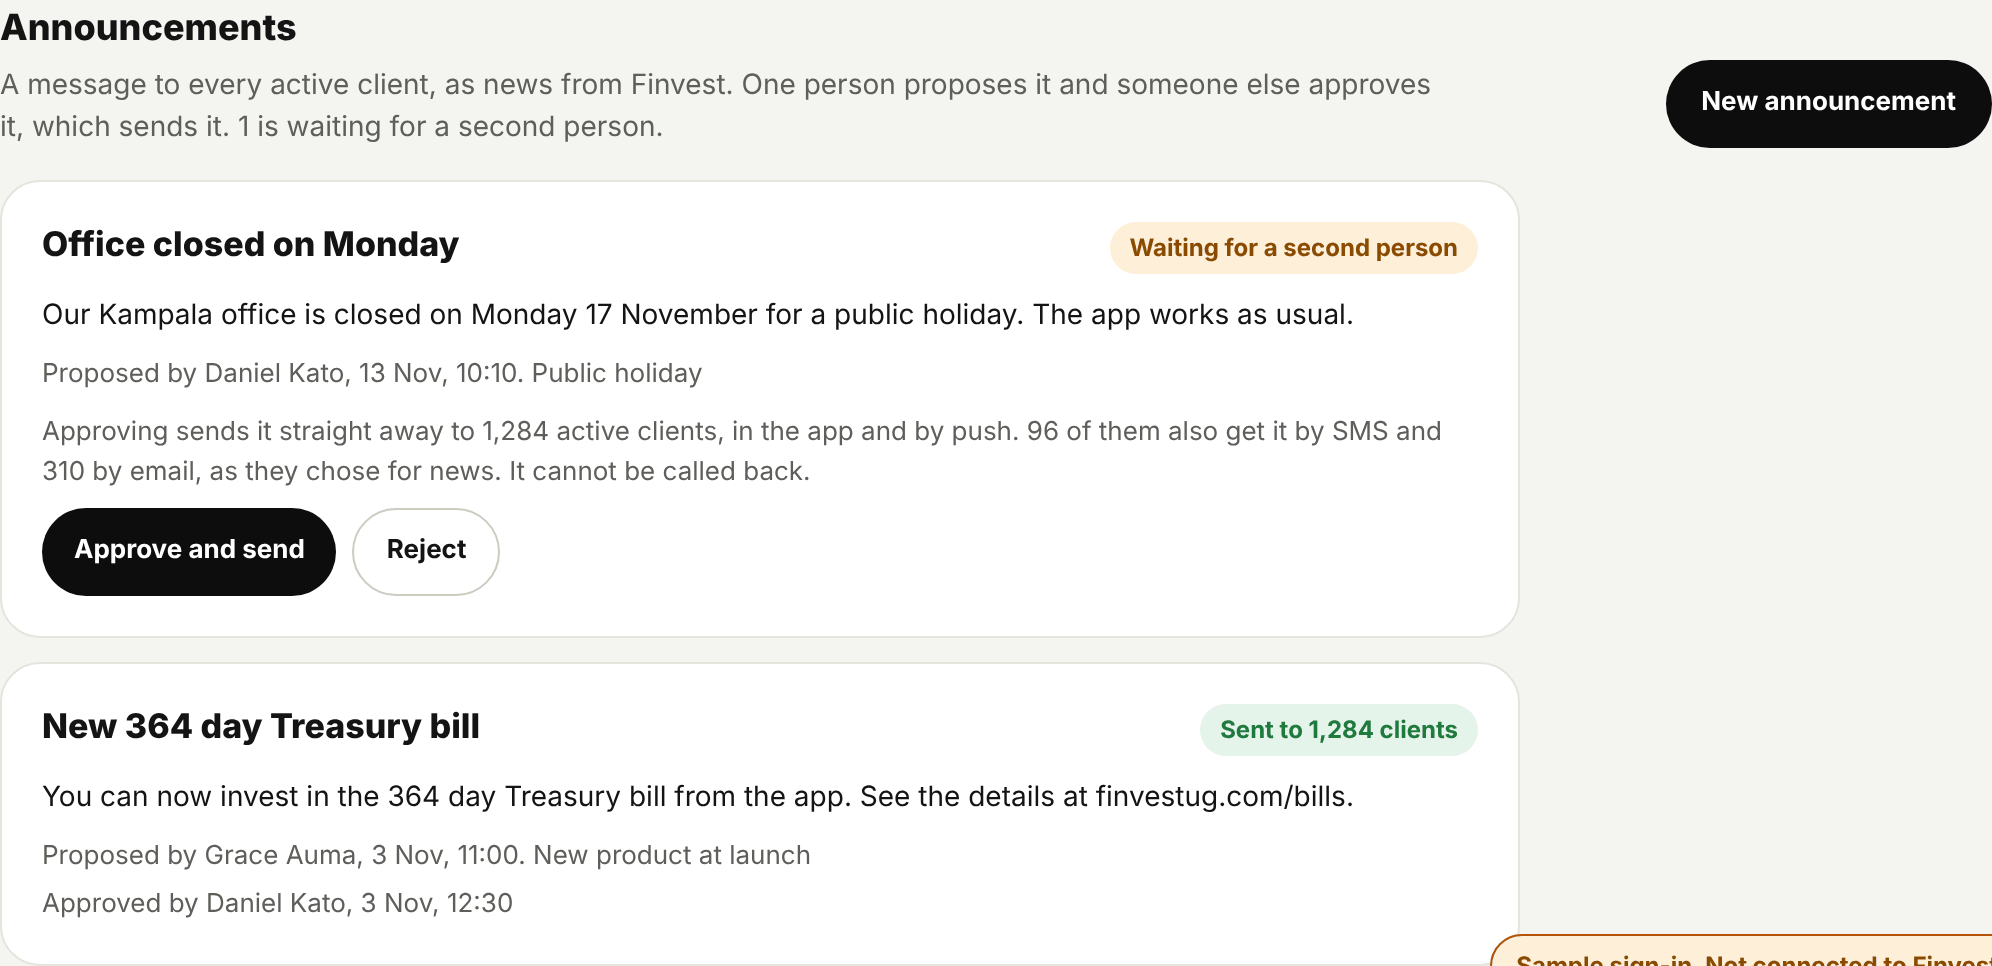
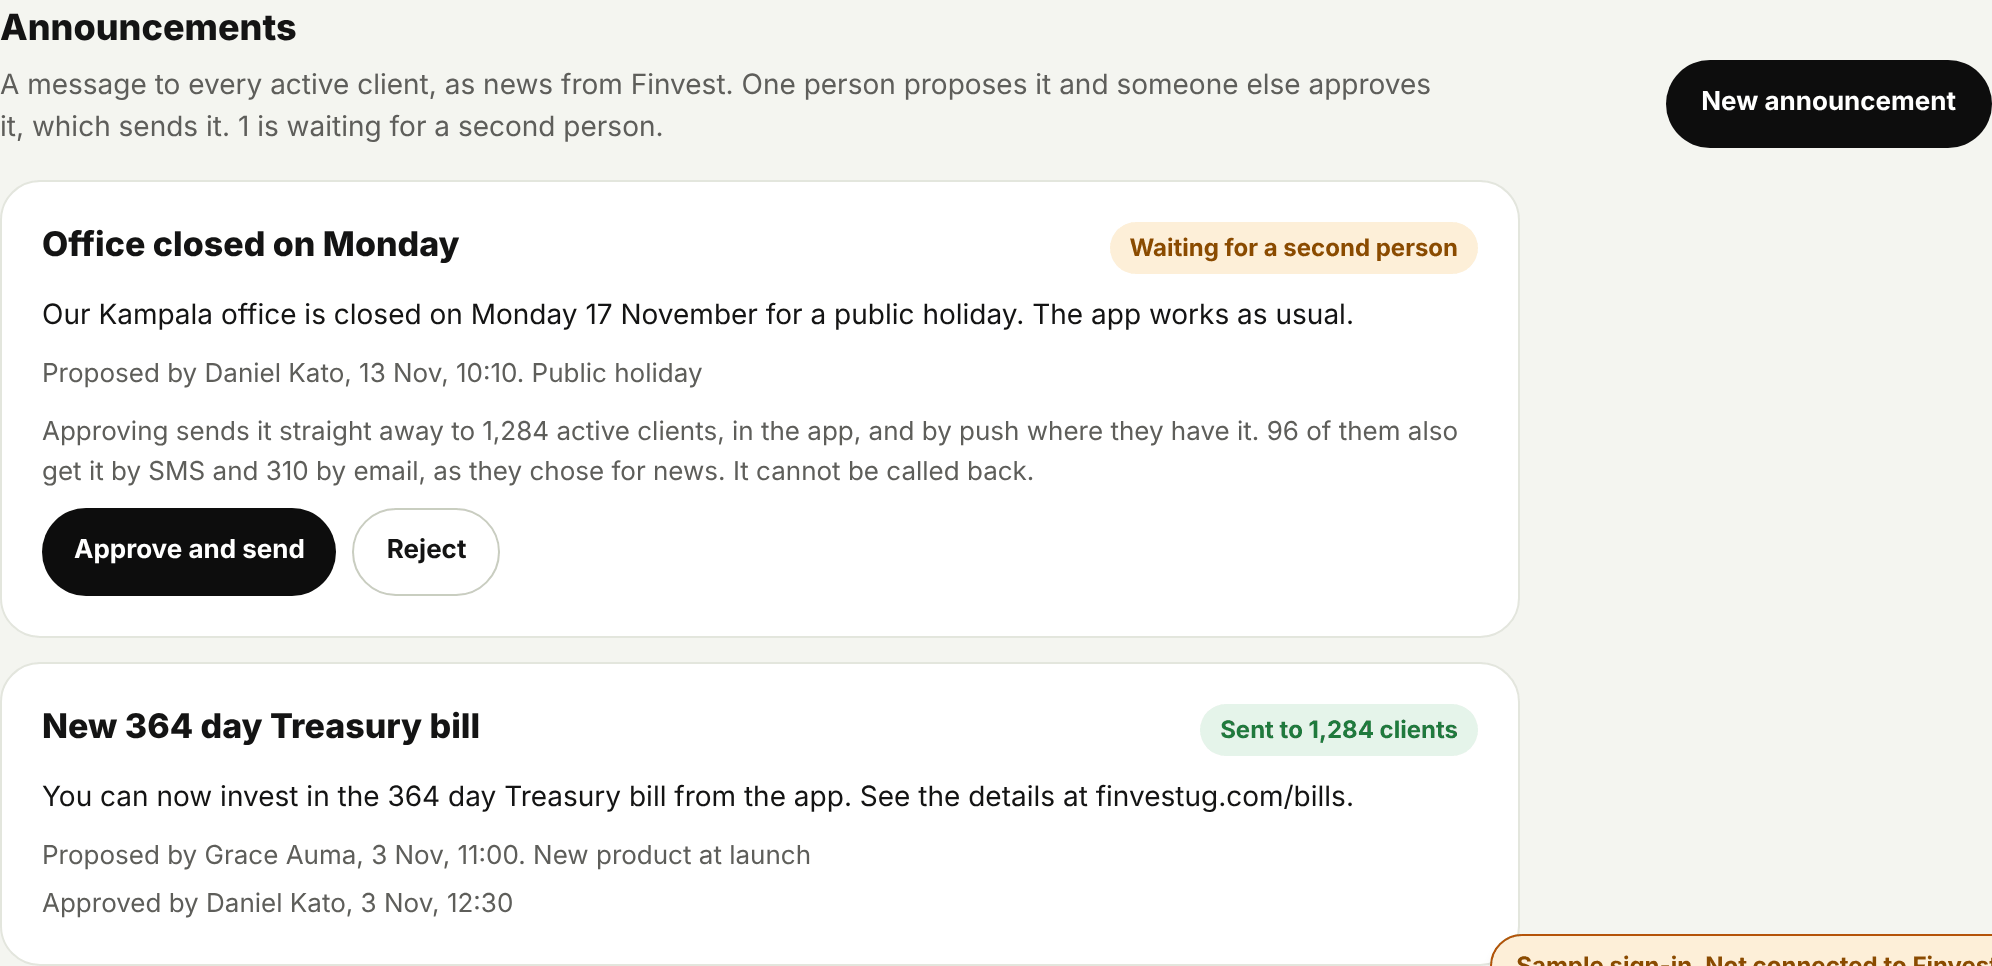
Say push goes only where clients have the app

Changed region(s): [[0.0311, 0.4348, 0.747, 0.4969]]

diff --git a/apps/console/src/screens/settings/announcements.test.tsx b/apps/console/src/screens/settings/announcements.test.tsx
@@ -22,7 +22,7 @@ const card = (name: string) => screen.findByRole("article", { name });
 describe("reachSentence", () => {
   it("names one client and says when nobody chose SMS or email", () => {
     expect(reachSentence({ clients: 1, sms: 0, email: 0 })).toBe(
-      "Approving sends it straight away to 1 active client, in the app and by push. None of them chose SMS or email for news.",
+      "Approving sends it straight away to 1 active client, in the app, and by push where they have it. None of them chose SMS or email for news.",
     );
   });
 });
@@ -47,7 +47,7 @@ describe("settings: announcements", () => {
     const { user } = renderSection();
     const waiting = await card("Office closed on Monday");
     expect(waiting).toHaveTextContent(
-      "Approving sends it straight away to 1,284 active clients, in the app and by push. 96 of them also get it by SMS and 310 by email, as they chose for news. It cannot be called back.",
+      "Approving sends it straight away to 1,284 active clients, in the app, and by push where they have it. 96 of them also get it by SMS and 310 by email, as they chose for news. It cannot be called back.",
     );
     await user.click(within(waiting).getByRole("button", { name: "Approve and send" }));
     await waitFor(async () => expect(await card("Office closed on Monday")).toHaveTextContent("Sent to 1,284 clients"));

diff --git a/apps/console/src/screens/settings/Announcements.tsx b/apps/console/src/screens/settings/Announcements.tsx
@@ -419,5 +419,5 @@ export function reachSentence(reach: AnnouncementReach | null): string {
     reach.sms === 0 && reach.email === 0
       ? "None of them chose SMS or email for news."
       : `${count(reach.sms)} of them also get it by SMS and ${count(reach.email)} by email, as they chose for news.`;
-  return `Approving sends it straight away to ${clients}, in the app and by push. ${extra}`;
+  return `Approving sends it straight away to ${clients}, in the app, and by push where they have it. ${extra}`;
 }
